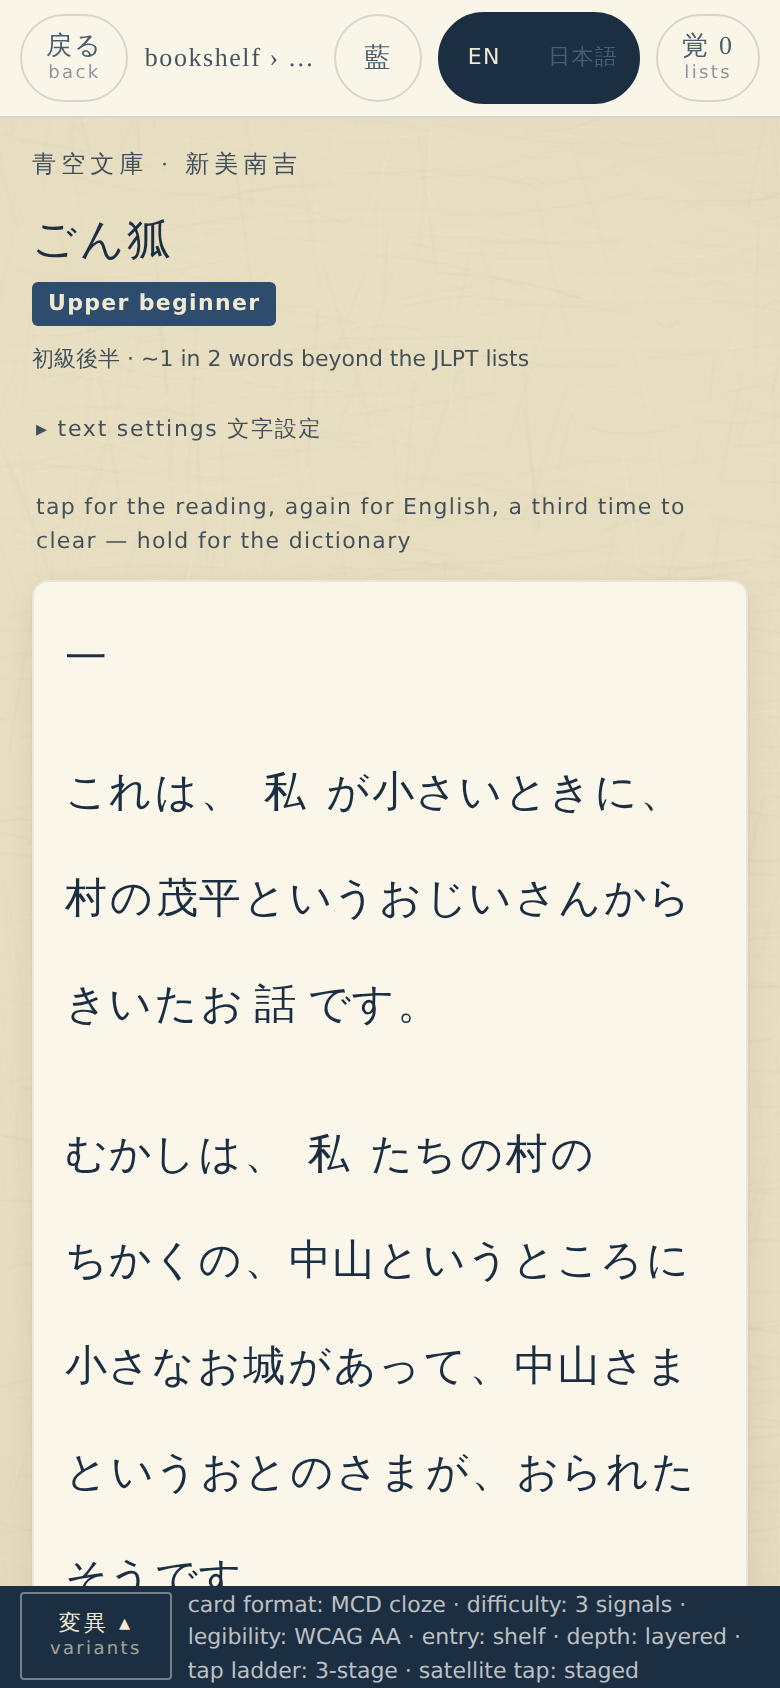
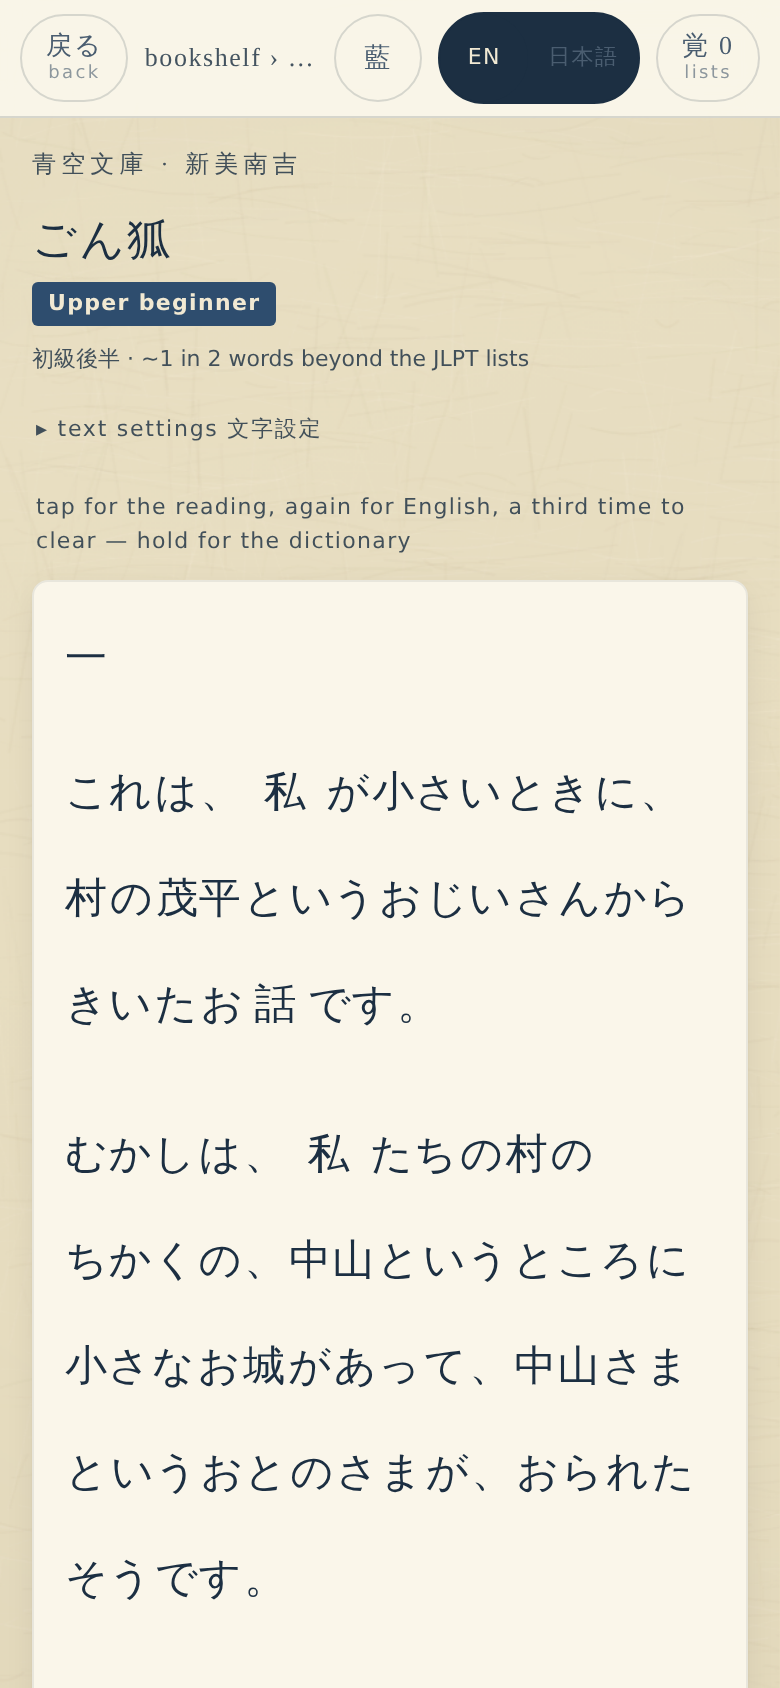
corridor: ?entry=shelf is a front door, not a debug switch
'entry' is both the documented navigation param and a variant key, so the
navigation link summoned the operator debug variants strip on every
surface — and the fixed strip swallows taps (filed independently by three
review lanes). Choosing a front door no longer raises the strip; the
strip stays reachable explicitly via ?variants=1, and any other genuine
variant param still raises it.

Verified: ?entry=shelf → shelf, no strip; ?variants=1 → strip;
?entry=shelf&cards=word → strip. Battery: corridor 115/116 (pre-existing
sent-door flake), writing-room 36/36, a11y green, vitest 1645.

Claude-Session: https://claude.ai/code/session_0178TDETqUHJdozostnUwAcD

Changed region(s): [[0.0, 0.9242, 1.0, 1.0]]

diff --git a/prototypes/corridor/corridor.js b/prototypes/corridor/corridor.js
@@ -1385,7 +1385,11 @@ async function boot() {
     const v = params.get(key);
     if (v && VARIANTS[key].options.some(([id]) => id === v)) {
       S.variants[key] = v;
-      anyVariantParam = true;
+      // 'entry' doubles as the documented navigation param (?entry=shelf).
+      // Choosing a front door must never summon the operator debug strip —
+      // the fixed strip swallows taps (filed by three review lanes). The
+      // strip remains reachable explicitly via ?variants=1.
+      if (key !== 'entry') anyVariantParam = true;
     }
   }
   S.variantsBar = anyVariantParam;
